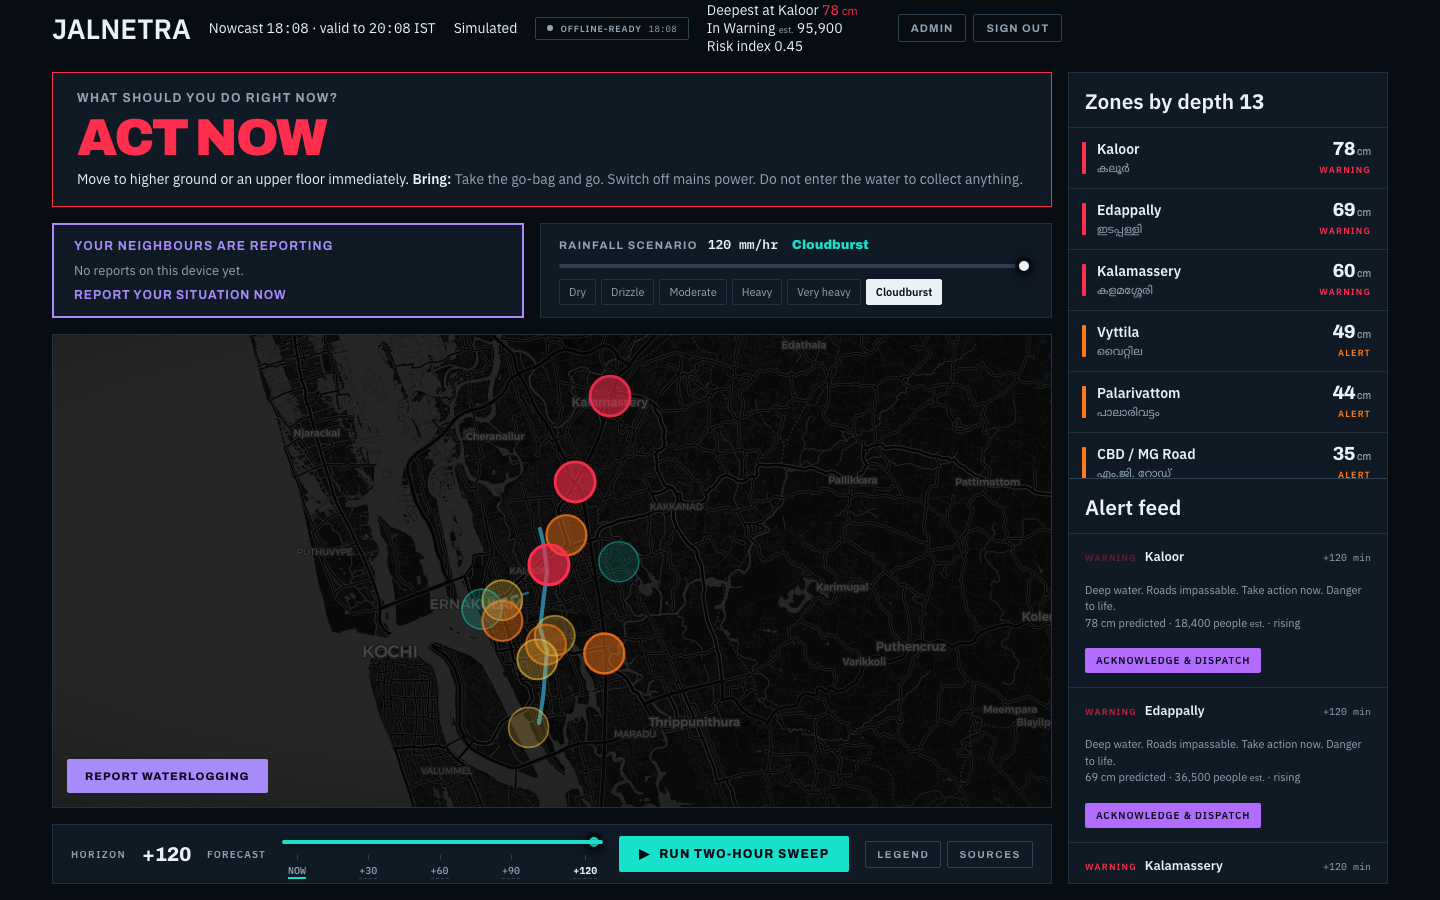
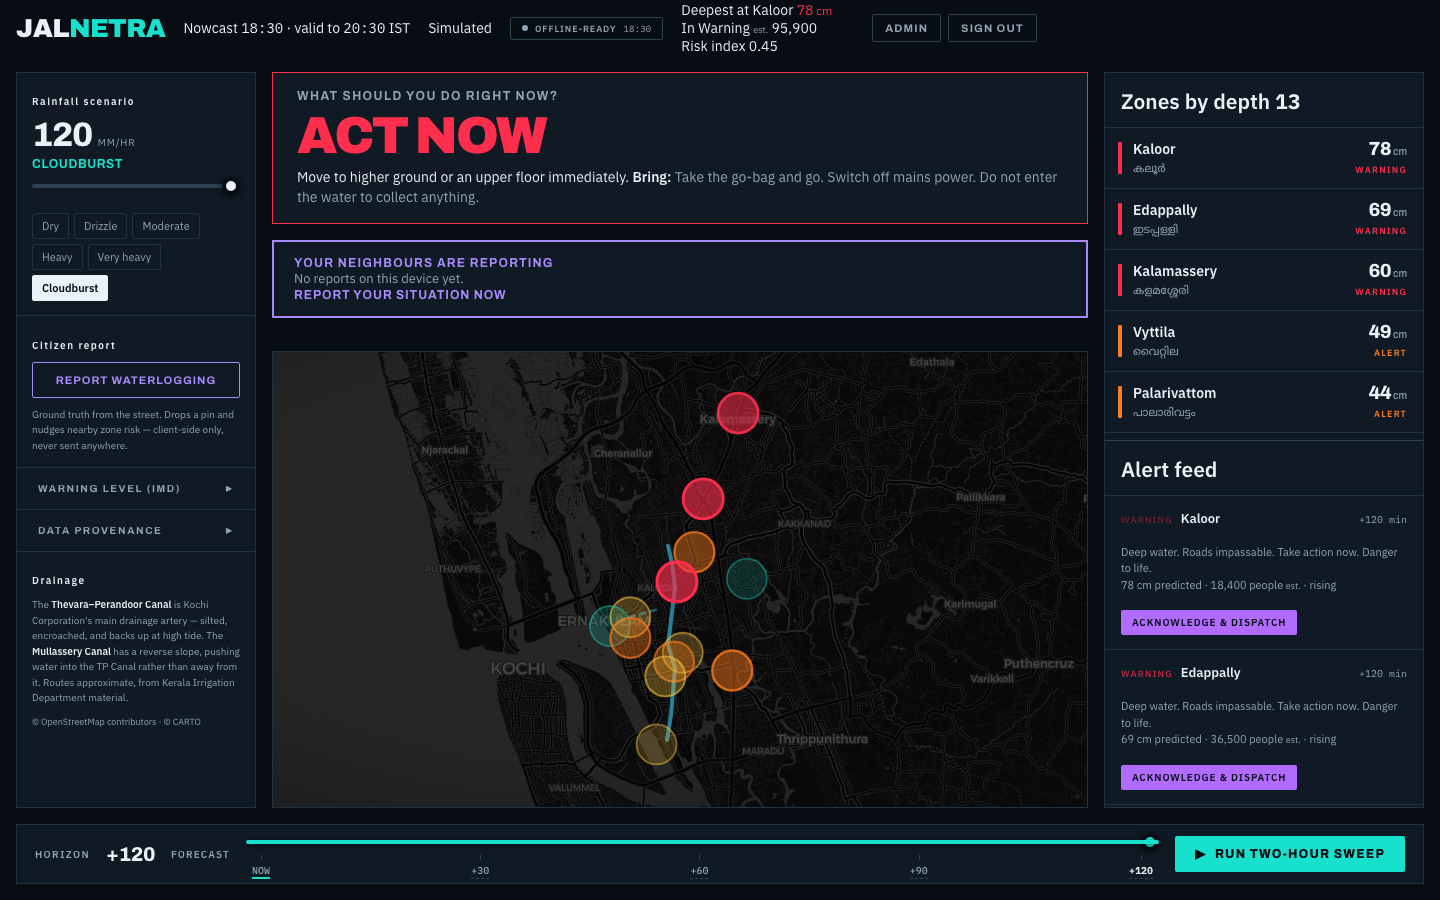
Final fixes: restore left rail, fix colors (JALNETRA cyan, citizen violet, hero yellow/red), verify against Figma
Layout is now three columns plus a full-width scrubber:
  strip     spans all      wordmark, timestamps, simulated, offline, stats, nav
  left      240px          rainfall scenario, citizen report, legend,
                           data provenance, drainage note
  centre    1fr            hero action card, citizen reports row, map
  right     320px          zones by depth, alert feed
  scrubber  spans all      horizon control

Two of the three requested colour fixes were already correct and were left
alone rather than "fixed": the hero border already resolves per state
(#FFC93C at WATCH, #FF2E4D at ACT NOW, measured in-browser both ways) and
the citizen card border was already #A78BFA.

The real defect was the wordmark: the base .wordmark rule had been deleted
in the Figma restructure, leaving only a media-query override, so NETRA had
stopped being cyan. Restored, now rgb(23,224,204).

Left rail restored. Rainfall, the citizen report control, the legend, data
provenance and the drainage note had scattered into the map and scrubber
when the Figma frame (which has no left column) was implemented.

Also fixed: the right rail disappeared after the scrubber was lifted to
grid level, because auto-placement pushed it into an implicit row 4 behind
the full-width scrubber. All four regions now have explicit grid-column and
grid-row. Hero min-height 135px so the action line wraps instead of
truncating.

diff --git a/index.html b/index.html
@@ -91,14 +91,23 @@
   .hud {
     position: fixed; inset: 0;
     display: grid;
-    grid-template-columns: minmax(0, 1fr) 320px;
-    grid-template-rows: auto minmax(0, 1fr);
+    grid-template-columns: 240px minmax(0, 1fr) 320px;
+    grid-template-rows: auto minmax(0, 1fr) auto;
     gap: 16px;
     padding: 0 16px 16px;
-    max-width: 1368px; margin: 0 auto;
+    max-width: 1440px; margin: 0 auto;
     pointer-events: none;
   }
   .hud > * { pointer-events: auto; }
+
+  /* The base .wordmark rule was lost in the layout restructure, leaving only a
+     media-query override — which is why NETRA had stopped being cyan. */
+  .wordmark {
+    font-family: var(--ff-display); font-weight: 900; font-size: 26px;
+    letter-spacing: -0.025em; line-height: 1; margin: 0; white-space: nowrap;
+    color: var(--text);
+  }
+  .wordmark span { color: var(--safe); }
 
   .strip {
     grid-column: 1 / -1;
@@ -106,8 +115,47 @@
     height: 56px; flex-wrap: nowrap; overflow: hidden;
     background: none; border: none; padding: 0; position: static;
   }
-  .col-main { display: flex; flex-direction: column; gap: 16px; min-height: 0; min-width: 0; }
-  .rail-right { display: flex; flex-direction: column; min-height: 0; overflow: hidden;
+  .col-main { grid-column: 2; grid-row: 2; display: flex; flex-direction: column; gap: 16px; min-height: 0; min-width: 0; }
+
+  /* Left rail restored. Rainfall, the citizen report control, the legend and
+     the drainage note all lived here before the Figma pass; the frame has no
+     left column, so they had scattered into the map and scrubber. */
+  .rail-left {
+    grid-column: 1; grid-row: 2;
+    display: flex; flex-direction: column; min-height: 0; overflow-y: auto;
+    background: var(--surface); border: 1px solid var(--hairline);
+    overscroll-behavior: contain;
+  }
+  .rail-left::-webkit-scrollbar { width: 7px; }
+  .rail-left::-webkit-scrollbar-thumb { background: var(--hairline-2); border-radius: 4px; }
+  .rail-left .block { padding: 14px 15px; border-bottom: 1px solid var(--hairline); }
+  .rail-left .block:last-child { border-bottom: none; }
+  .rail-left .block-title { font-size: 10px; letter-spacing: .15em; margin-bottom: 10px; }
+  .rail-left .presets { margin-top: 10px; }
+  .rain-readout { display: flex; align-items: baseline; gap: 6px; }
+  .rain-value { font-family: var(--ff-display); font-weight: 800; font-size: 34px;
+                line-height: 1; letter-spacing: -0.04em; font-variant-numeric: tabular-nums; }
+  .rain-unit { font-size: 10px; color: var(--muted); letter-spacing: .08em; text-transform: uppercase; }
+  .rain-name { font-family: var(--ff-display); font-weight: 700; font-size: 12px;
+               letter-spacing: .05em; text-transform: uppercase; color: var(--safe); margin: 5px 0 2px; }
+  .btn-report-rail {
+    width: 100%; padding: 11px; border: 1px solid #A78BFA; border-radius: 2px; color: #A78BFA;
+    font-family: var(--ff-display); font-size: 11px; letter-spacing: .09em;
+    text-transform: uppercase; font-weight: 700;
+    transition: background .16s var(--ease-out), color .16s var(--ease-out);
+  }
+  .btn-report-rail:hover,
+  .btn-report-rail[aria-pressed="true"] { background: #A78BFA; color: var(--ink); }
+  .rail-left .btn-report-kb, .rail-left .btn-clear-reports {
+    position: static; width: 100%; margin-top: 7px; background: none;
+  }
+  .rail-left .disclosure-btn { width: 100%; justify-content: space-between; }
+  .rail-left .disclosure-body { position: static; width: auto; box-shadow: none;
+                                border: none; padding: 12px 0 0; background: none; }
+  .attrib-note { font-size: 10px; color: var(--muted); line-height: 1.55; margin: 0; }
+  .attrib-note strong { color: var(--text); font-weight: 600; }
+  .rail-right { grid-column: 3; grid-row: 2;
+                display: flex; flex-direction: column; min-height: 0; overflow: hidden;
                 background: var(--surface); border: 1px solid var(--hairline);
                 position: static; width: auto; }
   /* Two independently scrolling panes, so the alert feed can never be pushed
@@ -121,7 +169,7 @@
 
   /* ---- hero: Figma 1:5, 135px tall, 24px sides / 16px top-bottom ---- */
   .hero-card {
-    flex: 0 0 auto; height: 135px;
+    flex: 0 0 auto; min-height: 135px;
     background: #101A24;
     border: 1px solid var(--ac, #FFC93C);
     padding: 16px 24px;
@@ -135,14 +183,14 @@
   .hero-state { font-family: var(--ff-display); font-weight: 900; font-size: 52px;
                 line-height: 1.02; letter-spacing: -0.04em; color: var(--ac, #FFC93C);
                 transition: color 300ms var(--ease-out); white-space: nowrap; }
-  .hero-action { margin: 0; font-size: 14px; line-height: 1.35; color: #EAF2F8;
-                 overflow: hidden; text-overflow: ellipsis; white-space: nowrap; }
+  .hero-action { margin: 0; font-size: 14px; line-height: 1.4; color: #EAF2F8;
+                 display: -webkit-box; -webkit-line-clamp: 2; -webkit-box-orient: vertical;
+                 overflow: hidden; }
   .hero-prep { color: var(--muted); }
   .hero-prep b { color: #EAF2F8; font-weight: 600; }
 
   /* ---- row: citizen 472 + the rainfall slot beside it ---- */
-  .row-two { flex: 0 0 auto; display: grid; grid-template-columns: 472px minmax(0,1fr);
-             gap: 16px; height: 95px; }
+  .row-two { flex: 0 0 auto; display: block; height: 95px; }
   .nb-card {
     background: #101A24; border: 2px solid #A78BFA;
     padding: 14px 20px;
@@ -200,7 +248,7 @@
 
   /* ---- scrubber: Figma 1:15, 60px tall ---- */
   .scrub {
-    flex: 0 0 auto; position: relative;
+    grid-column: 1 / -1; grid-row: 3; position: relative;
     height: 60px; background: var(--surface); border: 1px solid var(--hairline);
     display: flex; align-items: center; gap: 16px; padding: 0 18px;
   }
@@ -745,6 +793,68 @@
     </nav>
   </header>
 
+  <!-- ===== left rail ===== -->
+  <aside class="rail-left">
+    <div class="block">
+      <h2 class="block-title">Rainfall scenario</h2>
+      <div class="rain-readout">
+        <span class="rain-value" id="rain-value">62</span>
+        <span class="rain-unit">mm/hr</span>
+      </div>
+      <div class="rain-name" id="rain-name">Heavy</div>
+      <input type="range" id="rain" min="0" max="120" step="1" value="62"
+             aria-label="Rainfall intensity in millimetres per hour">
+      <div class="presets" id="presets" role="group" aria-label="Rainfall presets"></div>
+    </div>
+
+    <div class="block">
+      <h2 class="block-title">Citizen report</h2>
+      <button class="btn-report-rail" id="btn-report" aria-pressed="false">Report waterlogging</button>
+      <button class="btn-report-kb" id="btn-report-zone" hidden></button>
+      <button class="btn-clear-reports" id="btn-clear-reports" hidden>Clear reports</button>
+      <p class="attrib-note" style="margin-top:9px">Ground truth from the street.
+        Drops a pin and nudges nearby zone risk — client-side only, never sent anywhere.</p>
+    </div>
+
+    <div class="block">
+      <button class="disclosure-btn" id="legend-btn" aria-expanded="false" aria-controls="legend-body">
+        <span>Warning level (IMD)</span><span class="caret">▶</span></button>
+      <div class="disclosure-body" id="legend-body" hidden></div>
+    </div>
+
+    <div class="block">
+      <button class="disclosure-btn" id="prov-btn" aria-expanded="false" aria-controls="prov-body">
+        <span>Data provenance</span><span class="caret">▶</span></button>
+      <div class="disclosure-body prov-body" id="prov-body" hidden>
+        <dl>
+          <dt>Real and citable</dt>
+          <dd>Zone list and coordinates from reporting on actual waterlogging. The TP and
+          Mullassery canal routes and their documented failure modes. The IMD warning
+          scale and the term “nowcast”.</dd>
+          <dt>Estimated — not sourced</dt>
+          <dd>Population per zone: approximations, <em>not</em> census figures.
+          Susceptibility is authored to be plausible, not derived from a DEM.</dd>
+          <dt>Does not exist</dt>
+          <dd>No live rainfall feed, no trained model. Every figure comes from a
+          deterministic simulation on this device. Nothing is deployed.</dd>
+        </dl>
+      </div>
+    </div>
+
+    <div class="block">
+      <h2 class="block-title">Drainage</h2>
+      <p class="attrib-note">
+        The <strong>Thevara–Perandoor Canal</strong> is Kochi Corporation's main drainage
+        artery — silted, encroached, and backs up at high tide. The
+        <strong>Mullassery Canal</strong> has a reverse slope, pushing water into the TP
+        Canal rather than away from it. Routes approximate, from Kerala Irrigation
+        Department material.
+      </p>
+      <p class="attrib-note" style="margin-top:9px; font-size:9px">
+        © OpenStreetMap contributors · © CARTO</p>
+    </div>
+  </aside>
+
   <!-- ===== content column ===== -->
   <div class="col-main">
 
@@ -765,14 +875,6 @@
         <button class="nb-btn" id="btn-report-hero">Report your situation now</button>
       </section>
 
-      <section class="cond-card" aria-labelledby="cond-title">
-        <h2 class="cond-title" id="cond-title">Rainfall scenario
-          <span class="cond-read"><span class="num" id="rain-value">62</span> mm/hr
-          <b id="rain-name">Heavy</b></span></h2>
-        <input type="range" id="rain" min="0" max="120" step="1" value="62"
-               aria-label="Rainfall intensity in millimetres per hour">
-        <div class="presets" id="presets" role="group" aria-label="Rainfall presets"></div>
-      </section>
     </div>
 
     <!-- Figma 1:13 — Map · Kochi, 1000 wide. Extended to fill the gap the
@@ -782,44 +884,23 @@
       <div class="map-grade" aria-hidden="true"></div>
       <div class="map-hint" id="map-hint" hidden>Click the map to place your report</div>
       <p class="map-notice" id="map-notice" role="status" hidden></p>
-      <button class="btn-report-map" id="btn-report" aria-pressed="false">Report waterlogging</button>
-      <button class="btn-report-kb" id="btn-report-zone" hidden></button>
-      <button class="btn-clear-reports" id="btn-clear-reports" hidden>Clear reports</button>
     </div>
 
+  </div>
+
     <!-- Figma 1:15 — Scrubber · Timeline, 1000x60 -->
-    <div class="scrub">
-      <span class="scrub-label">Horizon</span>
-      <span class="scrub-now" id="scrub-now">NOW</span>
-      <span class="scrub-mode" id="scrub-mode">observed</span>
-      <div class="scrub-track">
-        <div class="scrub-progress" id="scrub-progress" aria-hidden="true"></div>
-        <input type="range" id="scrub" min="0" max="4" step="1" value="0"
-               aria-label="Forecast horizon in minutes from now" aria-valuetext="Now, observed">
-        <div class="ticks" id="ticks"></div>
-      </div>
-      <button class="btn-run" id="btn-run"></button>
-      <div class="scrub-disc">
-        <button class="disclosure-btn" id="legend-btn" aria-expanded="false" aria-controls="legend-body">Legend</button>
-        <button class="disclosure-btn" id="prov-btn" aria-expanded="false" aria-controls="prov-body">Sources</button>
-      </div>
-      <button class="sweep-cta" id="sweep-cta" hidden></button>
-      <div class="disclosure-body" id="legend-body" hidden></div>
-      <div class="disclosure-body prov-body" id="prov-body" hidden>
-        <dl>
-          <dt>Real and citable</dt>
-          <dd>Zone list and coordinates from reporting on actual waterlogging. The
-          Thevara–Perandoor and Mullassery canal routes and their documented failure
-          modes. The IMD warning scale and the term “nowcast”.</dd>
-          <dt>Estimated — not sourced</dt>
-          <dd>Population per zone: approximations, <em>not</em> census figures.
-          Susceptibility is authored to be plausible, not derived from a DEM.</dd>
-          <dt>Does not exist</dt>
-          <dd>No live rainfall feed, no trained model. Every figure comes from a
-          deterministic simulation on this device. Nothing is deployed.</dd>
-        </dl>
-      </div>
+  <div class="scrub">
+    <span class="scrub-label">Horizon</span>
+    <span class="scrub-now" id="scrub-now">NOW</span>
+    <span class="scrub-mode" id="scrub-mode">observed</span>
+    <div class="scrub-track">
+      <div class="scrub-progress" id="scrub-progress" aria-hidden="true"></div>
+      <input type="range" id="scrub" min="0" max="4" step="1" value="0"
+             aria-label="Forecast horizon in minutes from now" aria-valuetext="Now, observed">
+      <div class="ticks" id="ticks"></div>
     </div>
+    <button class="btn-run" id="btn-run"></button>
+    <button class="sweep-cta" id="sweep-cta" hidden></button>
   </div>
 
   <!-- Figma 1:17 — Right Rail · Zones + Alerts, 320 wide -->

diff --git a/check.js b/check.js
@@ -1,0 +1,21 @@
+const { chromium } = require('playwright');
+(async () => {
+  const b = await chromium.launch(); const p = await b.newPage({viewport:{width:1440,height:900}});
+  await p.goto('http://127.0.0.1:8420/index.html',{waitUntil:'networkidle'}); await p.waitForTimeout(700);
+  const g = async (sel, prop) => p.$eval(sel, (e,pr)=>getComputedStyle(e)[pr], prop).catch(()=>'MISSING');
+  console.log('wordmark JAL colour :', await g('.wordmark','color'));
+  console.log('wordmark NETRA span :', await g('.wordmark span','color'));
+  console.log('hero border (WATCH) :', await g('.hero-card','borderColor'));
+  console.log('citizen border      :', await g('.nb-card','borderColor'));
+  console.log('left rail exists    :', !!(await p.$('.rail-left')));
+  for (const s of ['#rain','#presets','#btn-report','#legend-btn','#prov-btn'])
+    console.log(('  '+s).padEnd(22), (await p.$(s)) ? 'present' : 'MISSING');
+  console.log('drainage note       :', (await p.$('.attrib-note')) ? 'present' : 'MISSING');
+  // escalate and re-read the hero border
+  await p.click('button[data-mm="120"]');
+  await p.$eval('#scrub', el=>{el.value='4';el.dispatchEvent(new Event('input',{bubbles:true}));});
+  await p.waitForTimeout(600);
+  console.log('hero state          :', await p.$eval('#hero-state', e=>e.textContent));
+  console.log('hero border (ACT NOW):', await g('.hero-card','borderColor'));
+  await b.close();
+})();
